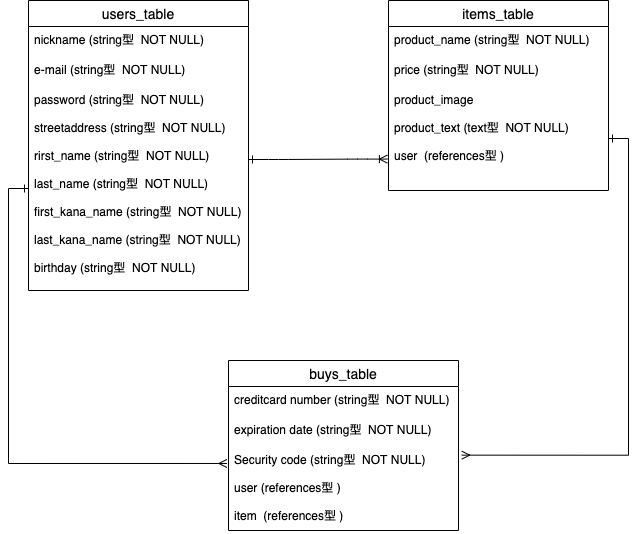
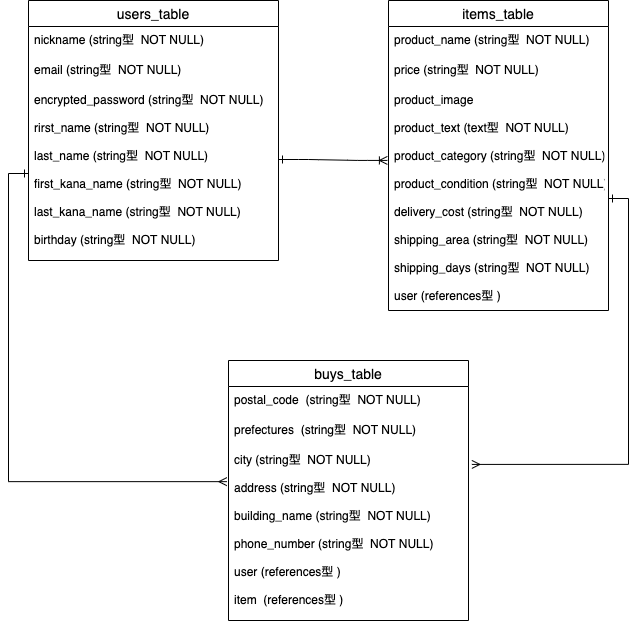
DBコードレビュー1修正

Changed region(s): [[0.4765, 0.0, 1.0, 0.7491], [0.0298, 0.0, 0.4467, 0.5094], [0.0298, 0.5693, 0.9828, 1.0]]

diff --git a/README.md b/README.md
@@ -2,32 +2,56 @@
 
 ## users テーブル
 
-| Column         | Type   | Options     |
-| -------------- | ------ | ----------- |
-| nickname       | string | null: false |
-| e-mai          | string | null: false |
-| password       | string | null: false |
-| streetaddress  | string | null: false |
-| rist_name      | string | null: false |
-| last_name      | string | null: false |
-| rist_kana_name | string | null: false |
-| last_kana_name | string | null: false |
+| Column             | Type   | Options                  |
+| ------------------ | ------ | ------------------------ |
+| nickname           | string | null: false              |
+| email              | string | null: false,unique: true |
+| encrypted_password | string | null: false              |
+| first_name         | string | null: false              |
+| last_name          | string | null: false              |
+| first_kana_name    | string | null: false              |
+| last_kana_name     | string | null: false              |
+| birthday           | string | null: false              |
+
+### Association
+
+- has_many :item
+- has_many :buy
 
 ##  items テーブル
 
-| Column       | Type       | Options                        |
-| ------------ | ---------- | ------------------------------ |
-| product_name | string     | null: false                    |
-| price        | string     | null: false                    |
-| producr_text | text       | null: false                    |
-| user         | references | null: false, foreign_key: true |
+| Column            | Type       | Options                        |
+| ----------------- | ---------- | ------------------------------ |
+| product_name      | string     | null: false                    |
+| price             | string     | null: false                    |
+| product_text      | text       | null: false                    |
+| product_category  | string     | null: false                    |
+| product_condition | string     | null: false                    |
+| delivery_cost     | string     | null: false                    |
+| shipping_area     | string     | null: false                    |
+| shipping_days     | string     | null: false                    |
+| user              | references | null: false, foreign_key: true |
+
+
+### Association
+- belongs_to :user
+- has_many :buy
+
 
 ##  buys テーブル
 
-| Column            | Type       | Options                        |
-| ----------------- | -----------| ------------------------------ |
-| creditcard_number | string     | null: false                    |
-| expliration_date  | string     | null: false                    |
-| security_code     | string     | null: false                    |
-| user              | references | null: false, foreign_key: true |
-| item              | references | null: false, foreign_key: true |
+| Column        | Type       | Options                        |
+| --------------| -----------| ------------------------------ |
+| postal_code   | string     | null: false                    |
+| prefectures   | string     | null: false                    |
+| city          | string     | null: false                    |
+| address       | string     | null: false                    |
+| building_name | string     | null: false                    |
+| phone_number  | string     | null: false                    |
+| user          | references | null: false, foreign_key: true |
+| item          | references | null: false, foreign_key: true |
+
+
+### Association
+- belongs_to :user
+- belongs_to :item
